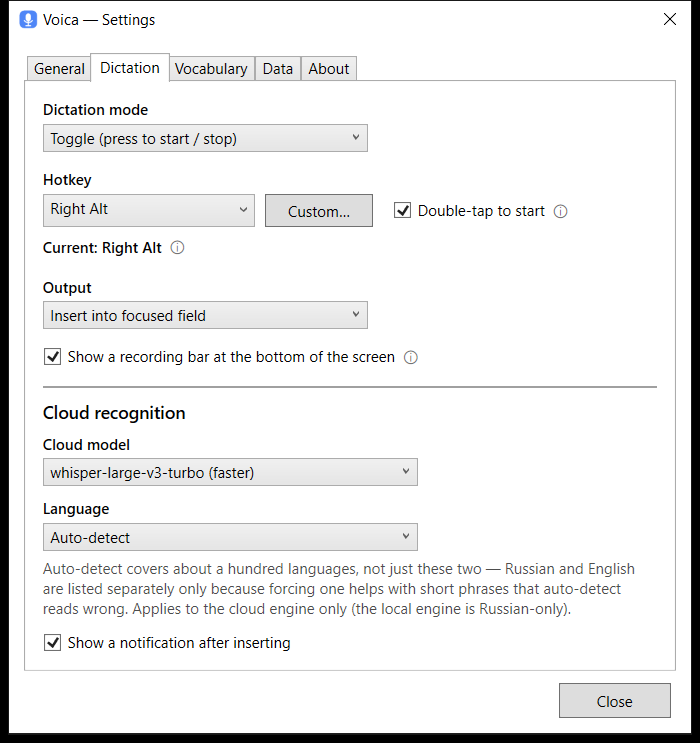
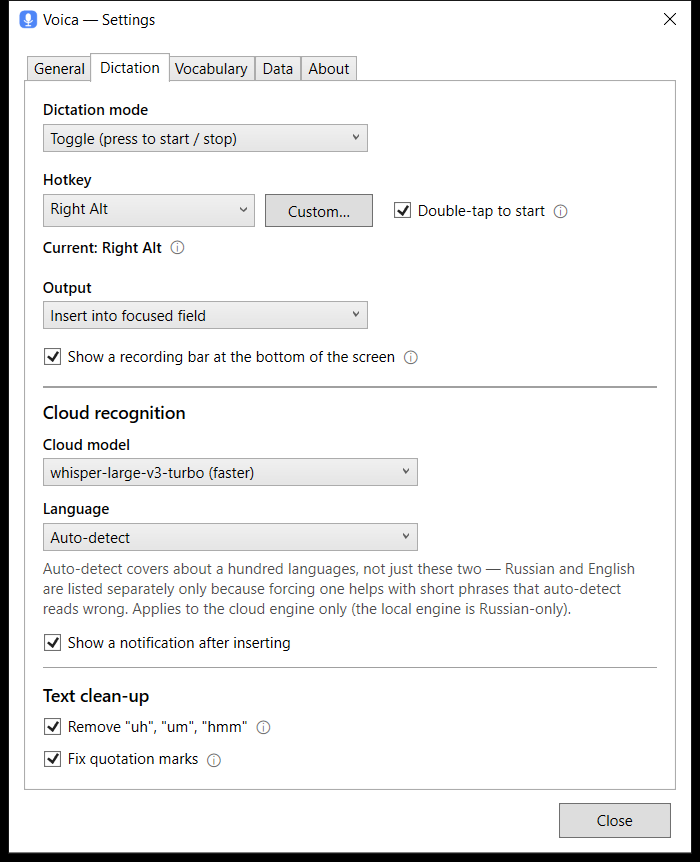
Document the text clean-up rules and reshoot their tabs
The READMEs gain the two rules that arrived with 0.9.17 parity — filler removal
and quote repair — described the way the vocabulary already is: what they do
without a key or a network, what they deliberately leave alone, and when to turn
them off. The settings table lists the three switches.

Screenshots: Dictation now carries the "Text clean-up" section and Vocabulary
the "Fix terms by rules" box above the AI pass, so both are reshot from the
current build. The other four tabs are unchanged.

diff --git a/README.md b/README.md
@@ -70,6 +70,16 @@ back the work on [Boosty](https://boosty.to/voica): the road to 1.0 for both the
     produced, so it never makes things worse.
 
   More: [Словарь терминов и ИИ-исправление](docs/terms-ai.ru.md) (in Russian).
+- **Text clean-up** — two more rules that run without a key or a network, both on by default and
+  both switchable:
+  - **Filler sounds go** — the drawn-out "э-э-э", "ммм", "хмм" that mean nothing in speech and
+    clutter the text. The rule reads the shape of a word, not a list of spellings, so it catches
+    every way recognition happens to spell a mumble. A real word that was merely drawn out is
+    straightened rather than dropped ("ну-у-у" → "ну"), and numbers, abbreviations and millimetres
+    are left alone. Turn it off if you transcribe speech verbatim — it deletes what was said.
+  - **Quotation marks are repaired** — straight quotes become guillemets by position, a missing
+    space after a colon comes back, and unpaired quotes are removed. Recognition places quotes
+    however it happens to, and the AI pass adds its own; English text is left alone.
 - **Update checks** against this repo's GitHub releases (opt‑in, once a day). Voica never downloads
   or installs anything itself — it just opens the release page.
 - **Privacy** — no backend, no telemetry. Network is used only for Groq (cloud transcription /
@@ -184,6 +194,9 @@ reflects state instead: idle (blue), recording (pulsing red), transcribing (ambe
 | Check for updates on launch | Once a day, opt‑in |
 | Delete audio older than | N days; 0 = keep forever |
 | Vocabulary | Terms fixed by rule on both engines; also a cloud hint (last 800 chars used) |
+| Fix terms by rules | On by default; the rules that need no key or network |
+| Remove "uh", "um", "hmm" | On by default; off if you transcribe verbatim |
+| Fix quotation marks | On by default; guillemets, pairing, space after a colon |
 | Fix terms with AI | Optional Groq pass on top of the rules; off by default |
 | Groq API key | Validate + Save (DPAPI); **Show** to reveal |
 | Delete all data… | Wipes history, audio, key, settings (random‑phrase confirmation) |
